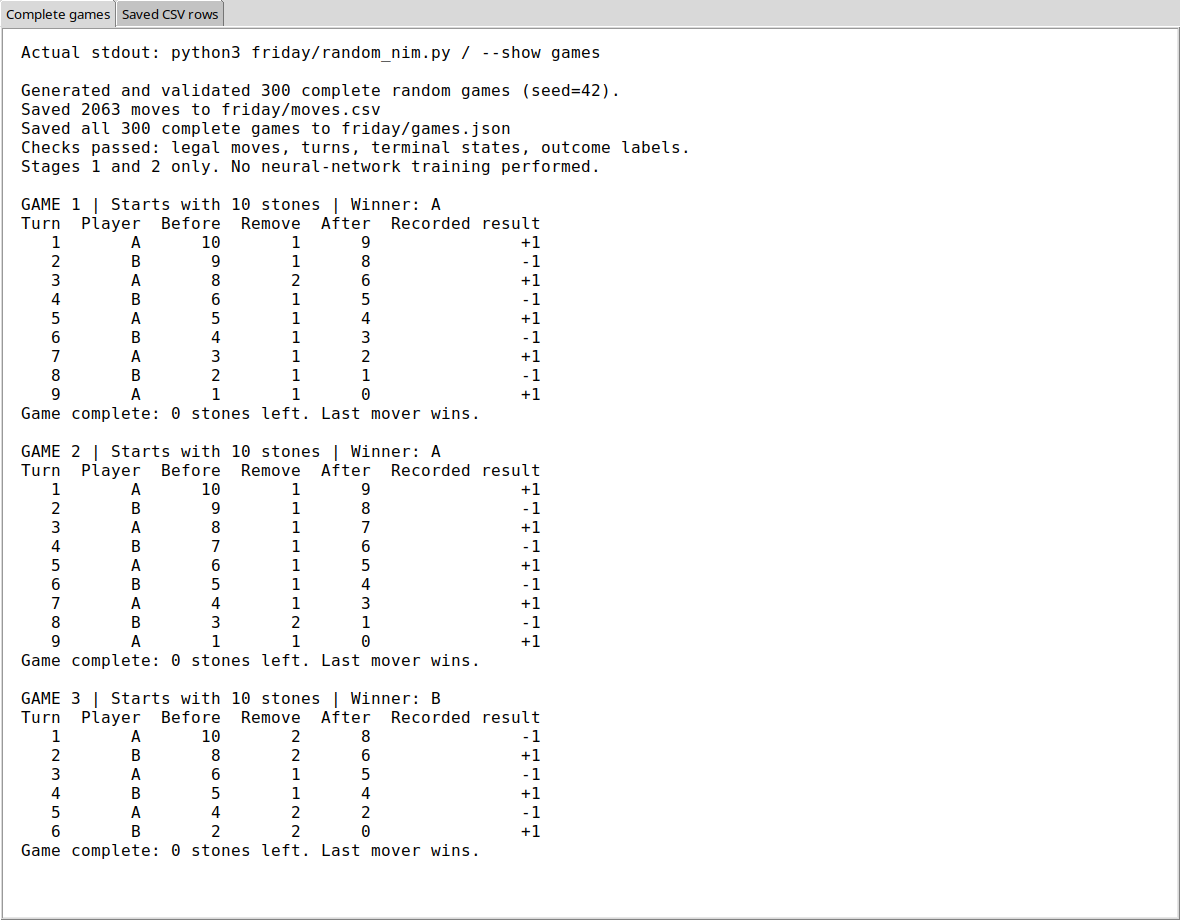
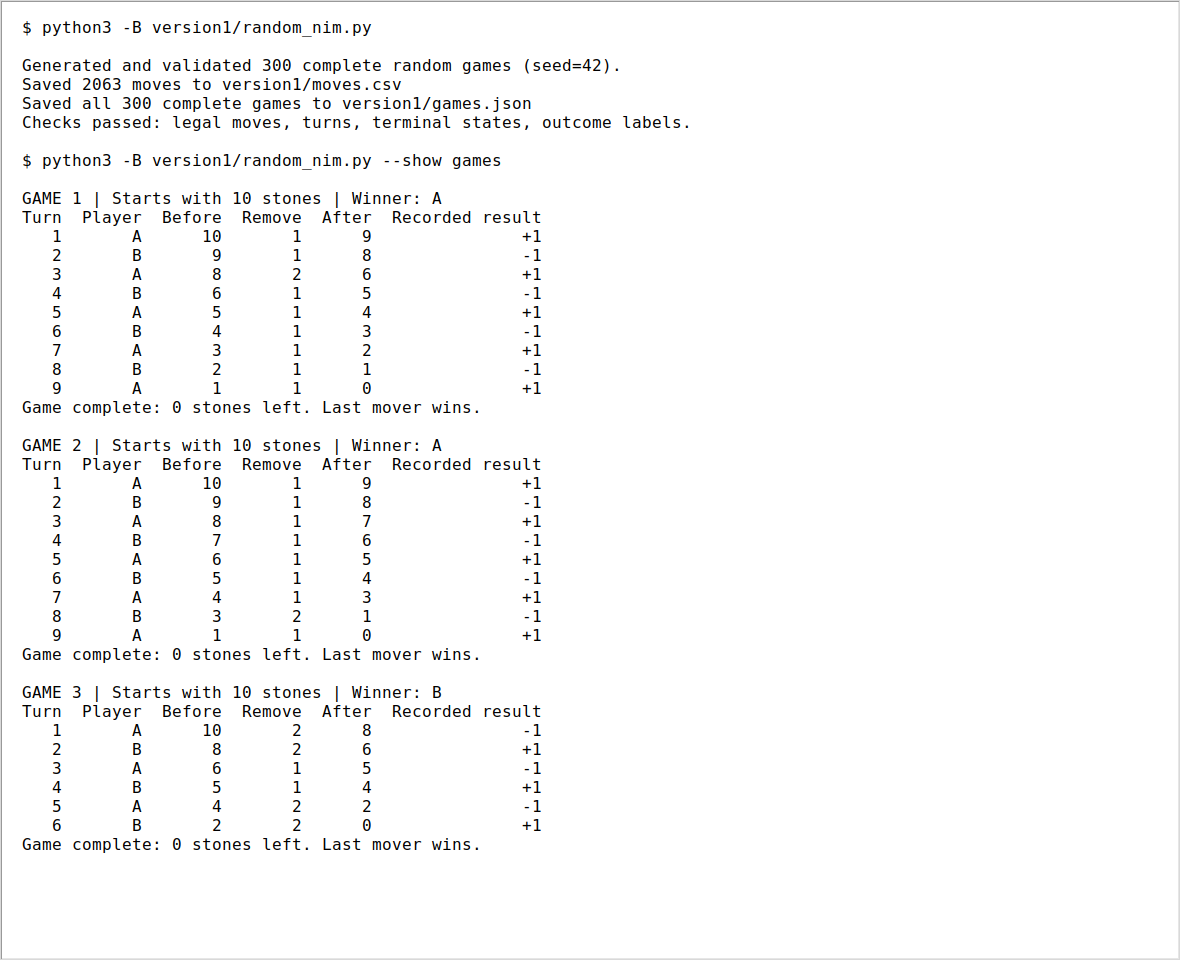
Save completed random Nim games and screenshots

diff --git a/version1/random_nim.py b/version1/random_nim.py
@@ -1,10 +1,3 @@
-"""stages 1 and 2: generate and inspect 300 random 10-stone Nim games.
-
-Run: python3 friday/random_nim.py
-Show complete examples: python3 friday/random_nim.py --show games
-Show actual CSV rows: python3 friday/random_nim.py --show rows
-Only Python's standard library is needed. No training is performed here.
-"""
 import argparse
 import csv
 import json
@@ -28,7 +21,6 @@ def generate_games(count=300, seed=42):
             stones -= action
             winner = player
             player = 'B' if player == 'A' else 'A'
-        # Label every move after discovering who took the last stone.
         game = [(state, action, 1 if player == winner else -1, player)
                 for state, action, player in moves]
         games.append(game)
@@ -86,14 +78,14 @@ def show_games(games):
 
 
 def show_rows():
-    # Read the saved CSV back from disk; do not manufacture display examples.
     with (OUTPUT / 'moves.csv').open(newline='') as file:
         rows = list(csv.reader(file))
-    print('ACTUAL SAVED FILE: friday/moves.csv')
+    print(f'ACTUAL SAVED FILE: {OUTPUT.name}/moves.csv')
     print('Columns: (state, action, win_loss, player)\n')
     for row in rows[:23]:
         print(','.join(row))
     print(f'\nCSV contains {len(rows)-1} move rows from 300 complete games.')
+    print(f'Total CSV lines: {len(rows)} = {len(rows)-1} moves + 1 header.')
     print('State is BEFORE the move. Players are A and B.')
     print('Outcome: +1 for the final winner, -1 for the final loser.')
 
@@ -103,7 +95,6 @@ def main():
     parser.add_argument('--show', choices=['games', 'rows'])
     args = parser.parse_args()
     if args.show:
-        # Display the actual previously generated files, without rerunning games.
         games = load_games()
         validate(games)
         show_games(games) if args.show == 'games' else show_rows()
@@ -112,10 +103,10 @@ def main():
     validate(games)
     save(games)
     print('Generated and validated 300 complete random games (seed=42).')
-    print(f'Saved {sum(len(game) for game in games)} moves to friday/moves.csv')
-    print('Saved all 300 complete games to friday/games.json')
+    print(f'Saved {sum(len(game) for game in games)} moves to {OUTPUT.name}/moves.csv')
+    print(f'Saved all 300 complete games to {OUTPUT.name}/games.json')
     print('Checks passed: legal moves, turns, terminal states, outcome labels.')
-    print('Stages 1 and 2 only. No neural-network training performed.')
+ 
 
 
 if __name__ == '__main__':
